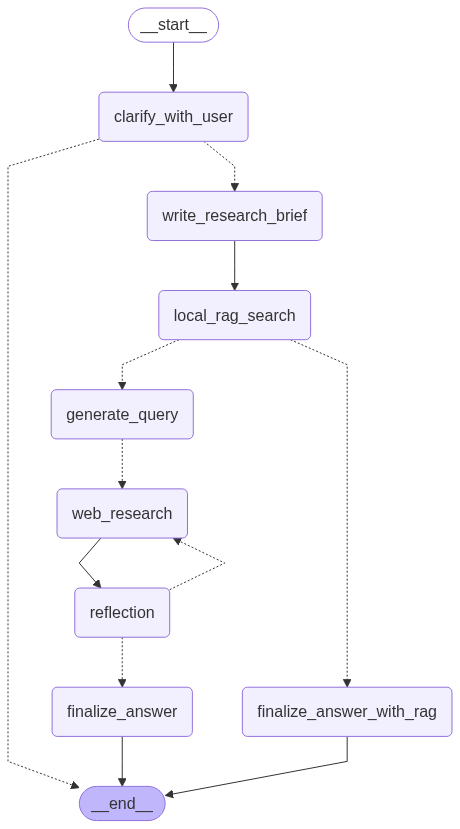
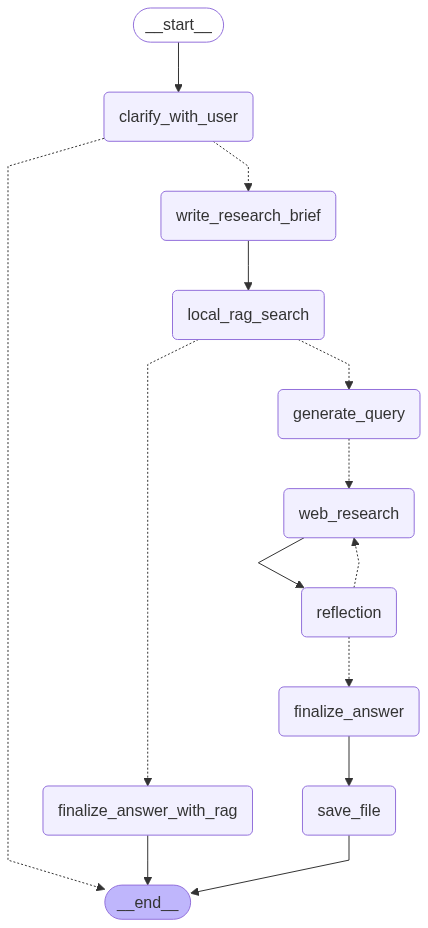
add mcp

diff --git a/backend/src/agent/graph.py b/backend/src/agent/graph.py
@@ -1,5 +1,5 @@
 import os
-
+import asyncio
 from agent.tools_and_schemas import SearchQueryList, Reflection,ClarifyWithUser,ResearchQuestion
 from dotenv import load_dotenv
 from langchain_core.messages import AIMessage, HumanMessage
@@ -10,6 +10,7 @@ from langchain_core.runnables import RunnableConfig
 from tavily import TavilyClient
 from typing_extensions import Literal
 from langgraph.prebuilt import create_react_agent
+from langchain_mcp_adapters.client import MultiServerMCPClient
 from langgraph.checkpoint.memory import MemorySaver
 from langgraph.types import Command
 from agent.state import (
@@ -36,7 +37,7 @@ from agent.utils import (
     get_buffer_string,
 )
 
-from agent.rag_tools import create_rag_tool, evaluate_rag_sufficiency
+from agent.agent_tools import create_rag_tool, evaluate_rag_sufficiency,save_file
 
 load_dotenv()
 
@@ -524,7 +525,7 @@ def finalize_answer(state: OverallState, config: RunnableConfig):
     current_date = get_today_str()
     formatted_prompt = answer_instructions.format(
         current_date=current_date,
-        research_topic=get_research_topic(state["messages"]),
+        research_topic=get_research_topic(state["research_brief"]),
         summaries="\n---\n\n".join(state["web_research_result"]),
     )
 
@@ -553,6 +554,68 @@ def finalize_answer(state: OverallState, config: RunnableConfig):
     }
 
 
+
+async def save_file_node(state: OverallState, config: RunnableConfig) -> OverallState:
+    """LangGraph node that saves the research report to a file.
+
+    Args:
+        state: Current graph state containing the running summary and sources gathered
+
+    Returns:
+        Command to indicate the end of the workflow
+    """
+    # Implement file saving logic here
+    configurable = Configuration.from_runnable_config(config)
+    reasoning_model = state.get("reasoning_model") or configurable.answer_model
+
+    # init Qwen Model, default to Qwen3-30B
+    llm = ChatOpenAI(
+        model=reasoning_model,
+        temperature=0,
+        max_retries=2,
+        api_key=os.getenv("OPENAI_API_KEY"),
+        base_url=os.getenv("OPENAI_BASE_URL", "https://api-inference.modelscope.cn/v1"),
+    )
+    client = MultiServerMCPClient(
+    {
+        "GITHUB": {
+            "url": os.getenv("GITHUB_TOKEN_KEY"),
+            "transport": "sse"
+        }
+
+    }
+)
+    tools = await asyncio.wait_for(client.get_tools(), timeout=25)
+    tools.append(save_file)
+    agent_executor = create_react_agent(llm, tools, checkpointer=memory)
+
+    try:
+        # 执行 RAG 检索
+        save_prompt = f"""请将下面的内容保存到knowledge文件夹中：{state['messages'][-1].content},保存文件名为{state['research_brief'][:10]}.md,
+        同时在我的mydeepresearch_note github仓库中创建相同的文件
+        """
+        
+        result = await agent_executor.ainvoke(
+            {"messages": [HumanMessage(content=save_prompt)]},
+        )
+        
+        # 提取结果
+        save_result = ""
+        if result.get("messages"):
+            save_result = result["messages"][-1].content
+        
+        return {
+            "save_result": save_result,
+        }
+        
+    except Exception as e:
+        return {
+            "save_result": f"本地保存文件检索失败: {str(e)}",
+        }
+
+
+
+
 # Create our Agent Graph
 builder = StateGraph(OverallState, config_schema=Configuration)
 
@@ -564,6 +627,7 @@ builder.add_node("generate_query", generate_query)
 builder.add_node("web_research", web_research)
 builder.add_node("reflection", reflection)
 builder.add_node("finalize_answer", finalize_answer)
+builder.add_node("save_file", save_file_node)
 builder.add_node("finalize_answer_with_rag", finalize_answer_with_rag)
 
 # 新的工作流程：
@@ -592,7 +656,8 @@ builder.add_conditional_edges(
 )
 
 # 7. 结束节点
-builder.add_edge("finalize_answer", END)
+builder.add_edge("finalize_answer", "save_file")
+builder.add_edge("save_file", END)
 builder.add_edge("finalize_answer_with_rag", END)
 
 graph = builder.compile(name="intent-clarification-rag-enhanced-search-agent")

diff --git a/backend/src/agent/agent_tools.py b/backend/src/agent/agent_tools.py
@@ -1,5 +1,5 @@
 from typing import List, Dict, Any, Type
-from langchain.tools import BaseTool
+from langchain.tools import BaseTool,tool
 # from langchain.pydantic_v1 import BaseModel, Field
 from pydantic import BaseModel,Field
 from agent.knowledge_base import knowledge_base
@@ -105,3 +105,45 @@ def evaluate_rag_sufficiency(rag_result: str, original_query: str) -> Dict[str, 
         "reason": reason,
         "rag_content": rag_result
     }
+
+
+@tool
+def save_file(contents: str, file_name: str, overwrite: bool = True, save_dir: str = "") -> str:
+    """将文本内容保存到文件中
+    
+    这个工具用于保存任何文本内容到指定文件，包括：
+    - 搜索结果、网页内容、分析报告
+    - JSON数据、CSV数据、Markdown文档
+    - 处理后的数据或最终结果
+    
+    Args:
+        contents: 要保存的文本内容（支持任何格式：纯文本、JSON、Markdown、CSV等）
+        file_name: 文件名（建议包含扩展名，如：report.md、data.json、results.txt）
+        overwrite: 是否覆盖已存在的文件（默认True，设为False时文件存在则不覆盖）
+        save_dir: 保存目录路径（默认为"output"目录，会自动创建）
+        
+    Returns:
+        成功时返回保存的文件名，失败时返回错误信息
+        
+    使用示例：
+    - save_file("搜索结果内容", "search_result.md")
+    - save_file('{"key": "value"}', "data.json")
+    - save_file("分析报告内容", "analysis_report.txt", save_dir="reports")
+    """
+    try:
+        if save_dir:
+            save_dir = Path(save_dir)
+        else:
+            save_dir = Path("output")
+        
+        file_path = save_dir.joinpath(file_name)
+        if not file_path.parent.exists():
+            file_path.parent.mkdir(parents=True, exist_ok=True)
+        
+        if file_path.exists() and not overwrite:
+            return f"File {file_name} already exists"
+        
+        file_path.write_text(contents, encoding='utf-8')
+        return str(file_name)
+    except Exception as e:
+        return f"Error saving to file: {e}"

diff --git a/backend/gradio_app_chat.py b/backend/gradio_app_chat.py
@@ -10,6 +10,7 @@ import json
 from typing import List, Dict, Any, Tuple
 import time
 import tempfile
+import asyncio
 from pathlib import Path
 import traceback
 
@@ -38,7 +39,7 @@ class ChatResearchAgent:
             session_id = self.create_session(session_id)
         return self.sessions[session_id]
     
-    def chat_with_agent(self, message: str, history: List[List[str]], session_id: str = "default") -> Tuple[str, List[List[str]]]:
+    async def chat_with_agent(self, message: str, history: List[List[str]], session_id: str = "default") -> Tuple[str, List[List[str]]]:
         """与代理进行对话"""
         if not message.strip():
             return "", history
@@ -65,7 +66,7 @@ class ChatResearchAgent:
                 state["messages"].append(HumanMessage(content=message))
             
             # 执行图
-            result = graph.invoke(state)
+            result = await graph.ainvoke(state)
             
             # 保存会话状态
             session["conversation_state"] = result
@@ -462,6 +463,10 @@ def create_chat_interface():
         # 事件绑定
         def handle_send(message, history, session_id):
             return chat_agent.chat_with_agent(message, history, session_id)
+        def handle_send_async(message, history, session_id):
+            """异步事件处理包装器"""
+            return asyncio.run(chat_agent.chat_with_agent(message, history, session_id))
+
         
         def handle_clear(session_id):
             chat_agent.clear_session(session_id)
@@ -472,7 +477,7 @@ def create_chat_interface():
         
         # 发送消息
         send_btn.click(
-            fn=handle_send,
+            fn=handle_send_async,
             inputs=[msg_input, chatbot, session_id],
             outputs=[msg_input, chatbot],
             show_progress=True

diff --git a/backend/src/agent/state.py b/backend/src/agent/state.py
@@ -29,6 +29,8 @@ class OverallState(TypedDict):
     clarification_question: str
     research_brief: str
     supervisor_messages: Annotated[list, add_messages]
+    #  保存文件相关
+    save_result: str
 
 
 class ReflectionState(TypedDict):

diff --git a/backend/src/agent/utils.py b/backend/src/agent/utils.py
@@ -186,3 +186,4 @@ def get_citations(response, resolved_urls_map):
                     pass
         citations.append(citation)
     return citations
+
